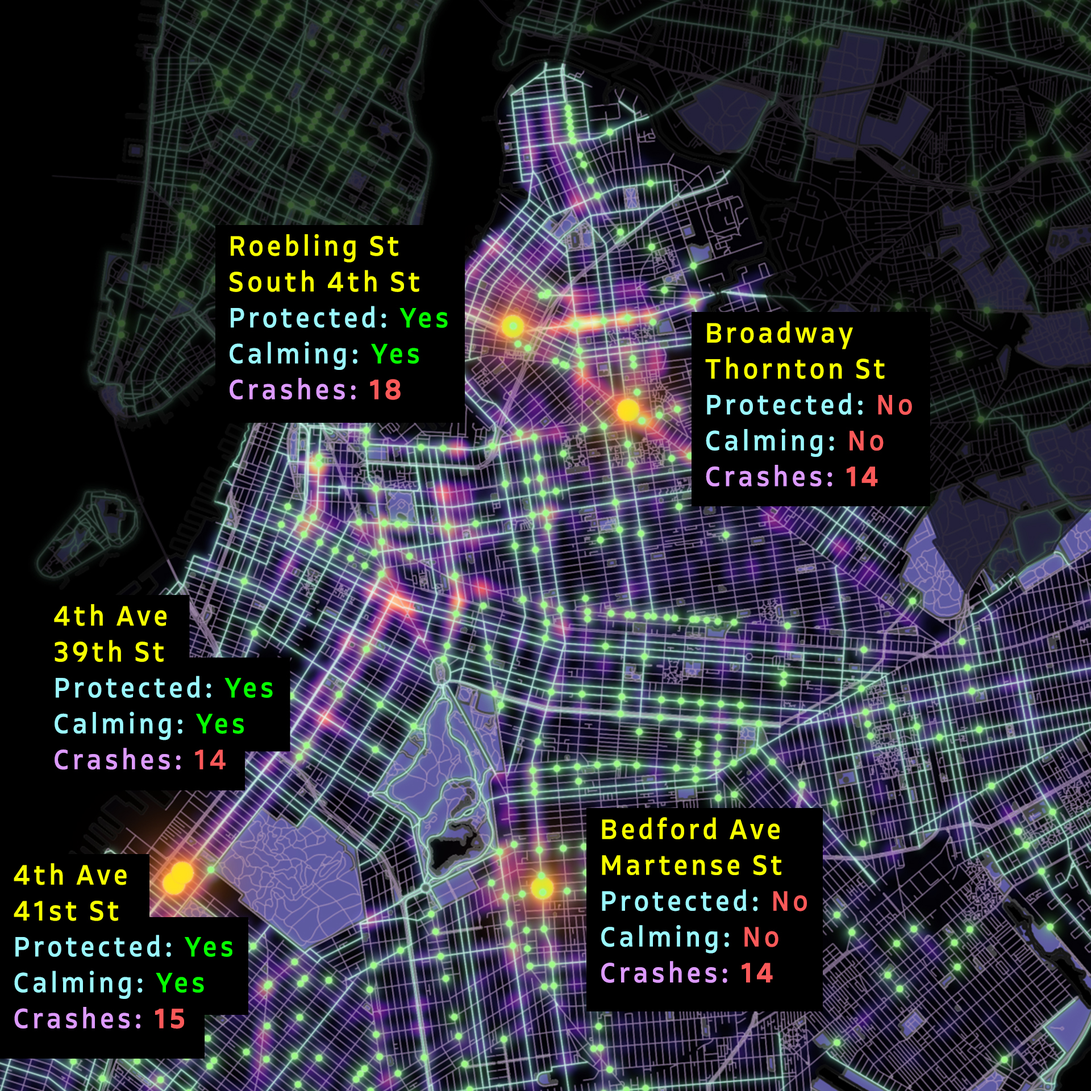
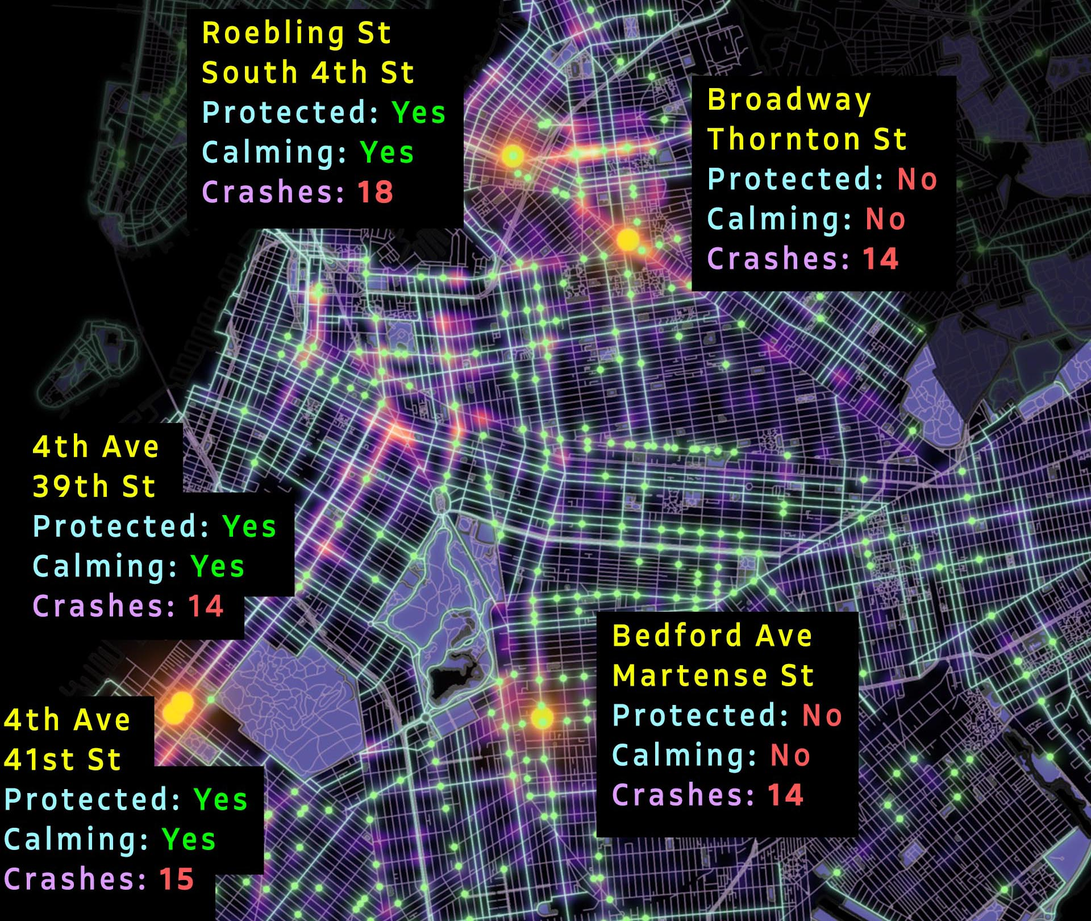
changed text, edited top 5 image
changed text to match visual. Edited top 5 map to be more readable

diff --git a/docs/sticky-overlay/index.html b/docs/sticky-overlay/index.html
@@ -262,11 +262,11 @@
 				</div>
 
 				<div class="step" data-step="15">
-					<p> As you can see, crashes can occur on a wide variety of streets.</p>
+					<p> Here are some stats. As you can see, crashes can occur on a wide variety of streets.</p>
+					<p> Once you're adequately scared, come ride some of them with me so you don't have to by yourself!</p>
 				</div>
 
 				<div class="step" data-step="16">
-					<p> Come ride some of them with me so you don't have to by yourself!</p>
 					<p>This is Bedford Ave and Martense St in Flatbush.</p>
 					<p>I've had a really close call here before, and you can see why, it's a major road, no protection, 
 						and cyclists probably have to ride around the bus when it's at the bus stop.</p>
